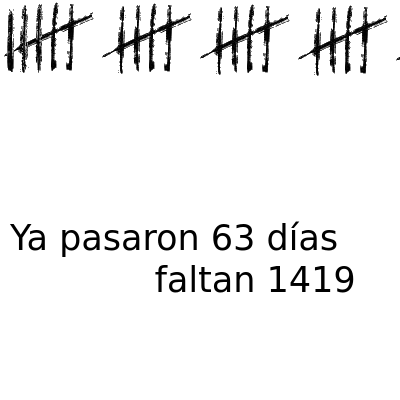
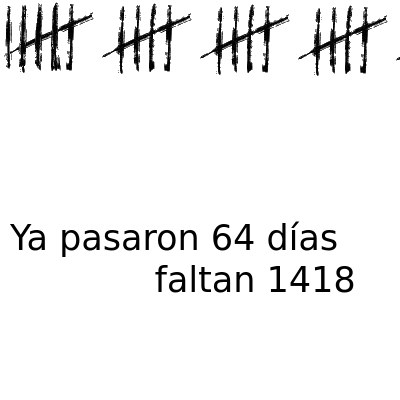
deploy: 28882f26f23b9f53dac6c4991168e610486d0e44

Changed region(s): [[0.0, 0.0, 0.15, 0.18], [0.57, 0.54, 0.63, 0.63], [0.84, 0.66, 0.9, 0.75]]

diff --git a/index.html b/index.html
@@ -3,19 +3,19 @@
   <head>
     <meta charset='utf-8'>
     <meta http-equiv='X-UA-Compatible' content='IE=edge'>
-    <title>Ya pasaron 63 días y faltan 1419</title>
-    <meta name="description" content="Ya pasaron 63 días y faltan 1419">
-    <meta itemprop="name" content="Ya pasaron 63 días y faltan 1419">
-    <meta itemprop="description" content="Ya pasaron 63 días y faltan 1419">
+    <title>Ya pasaron 64 días y faltan 1418</title>
+    <meta name="description" content="Ya pasaron 64 días y faltan 1418">
+    <meta itemprop="name" content="Ya pasaron 64 días y faltan 1418">
+    <meta itemprop="description" content="Ya pasaron 64 días y faltan 1418">
     <meta name="twitter:card" content="summary">
-    <meta name="twitter:title" content="Ya pasaron 63 días y faltan 1419">
-    <meta name="twitter:description" content="Ya pasaron 63 días y faltan 1419">
+    <meta name="twitter:title" content="Ya pasaron 64 días y faltan 1418">
+    <meta name="twitter:description" content="Ya pasaron 64 días y faltan 1418">
     <meta name="twitter:creator" content="@FloriusWasTaken">
     <meta name="twitter:image" content="https://pasaron.meme.ar/capture.png">
-    <meta property="og:title" content="Ya pasaron 63 días y faltan 1419">
-    <meta property="og:description" content="Ya pasaron 63 días y faltan 1419">
+    <meta property="og:title" content="Ya pasaron 64 días y faltan 1418">
+    <meta property="og:description" content="Ya pasaron 64 días y faltan 1418">
     <meta property="og:url" content="https://pasaron.meme.ar">
-    <meta property="og:site_name" content="Ya pasaron 63 días y faltan 1419">
+    <meta property="og:site_name" content="Ya pasaron 64 días y faltan 1418">
     <meta property="og:type" content="website">
     <meta property="og:image" content="https://pasaron.meme.ar/capture.png">
     <meta name="theme-color" content="#dc143c">
@@ -69,18 +69,18 @@
         padding: 0;
       }
     </style>
-    <title>Ya pasaron 63 días y faltan 1419</title>
+    <title>Ya pasaron 64 días y faltan 1418</title>
   </head>
   <body>
     <div id="main">
       <img src="img/5.png"/><img src="img/5.png"/><img src="img/5.png"/><img src="img/5.png"/><img src="img/5.png"/><img src="img/5.png"/><img src="img/5.png"/><img src="img/5.png"/><img src="img/5.png"/><img src="img/5.png"/><img src="img/5.png"/><img src="img/5.png"/>
       
-        <img src="img/3.png"/>
+        <img src="img/4.png"/>
       
     </div>
     <footer id="footer">
       <marquee id="marquee" class="is-vertical-align">
-        Ya pasaron 63 días y faltan 1419
+        Ya pasaron 64 días y faltan 1418
       </marquee>
       <ul>
         <li>
